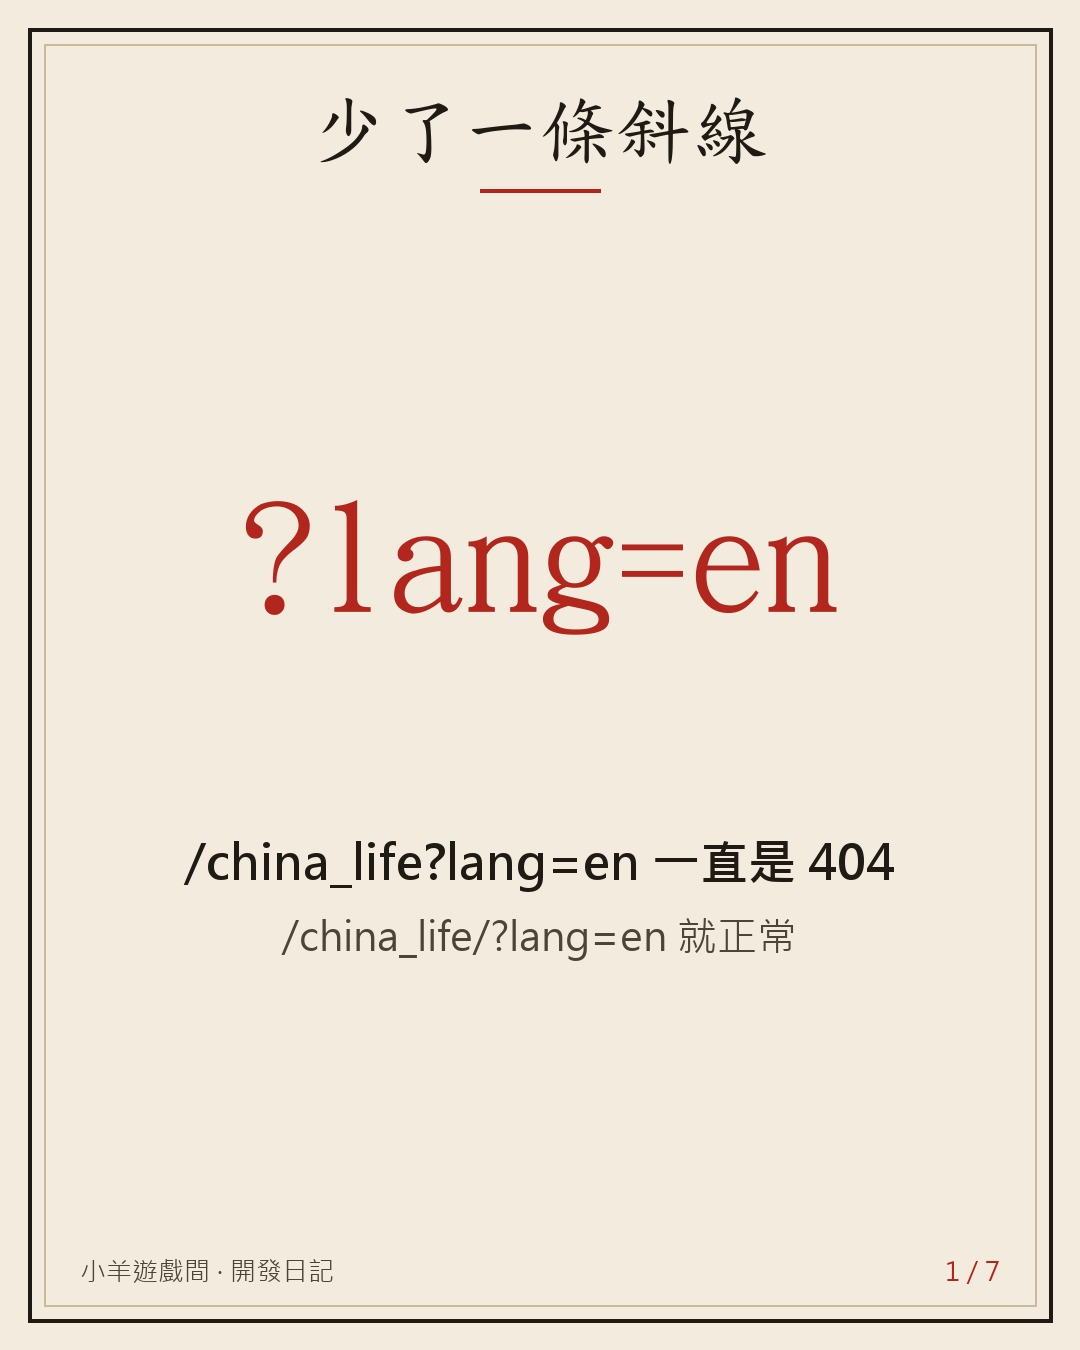
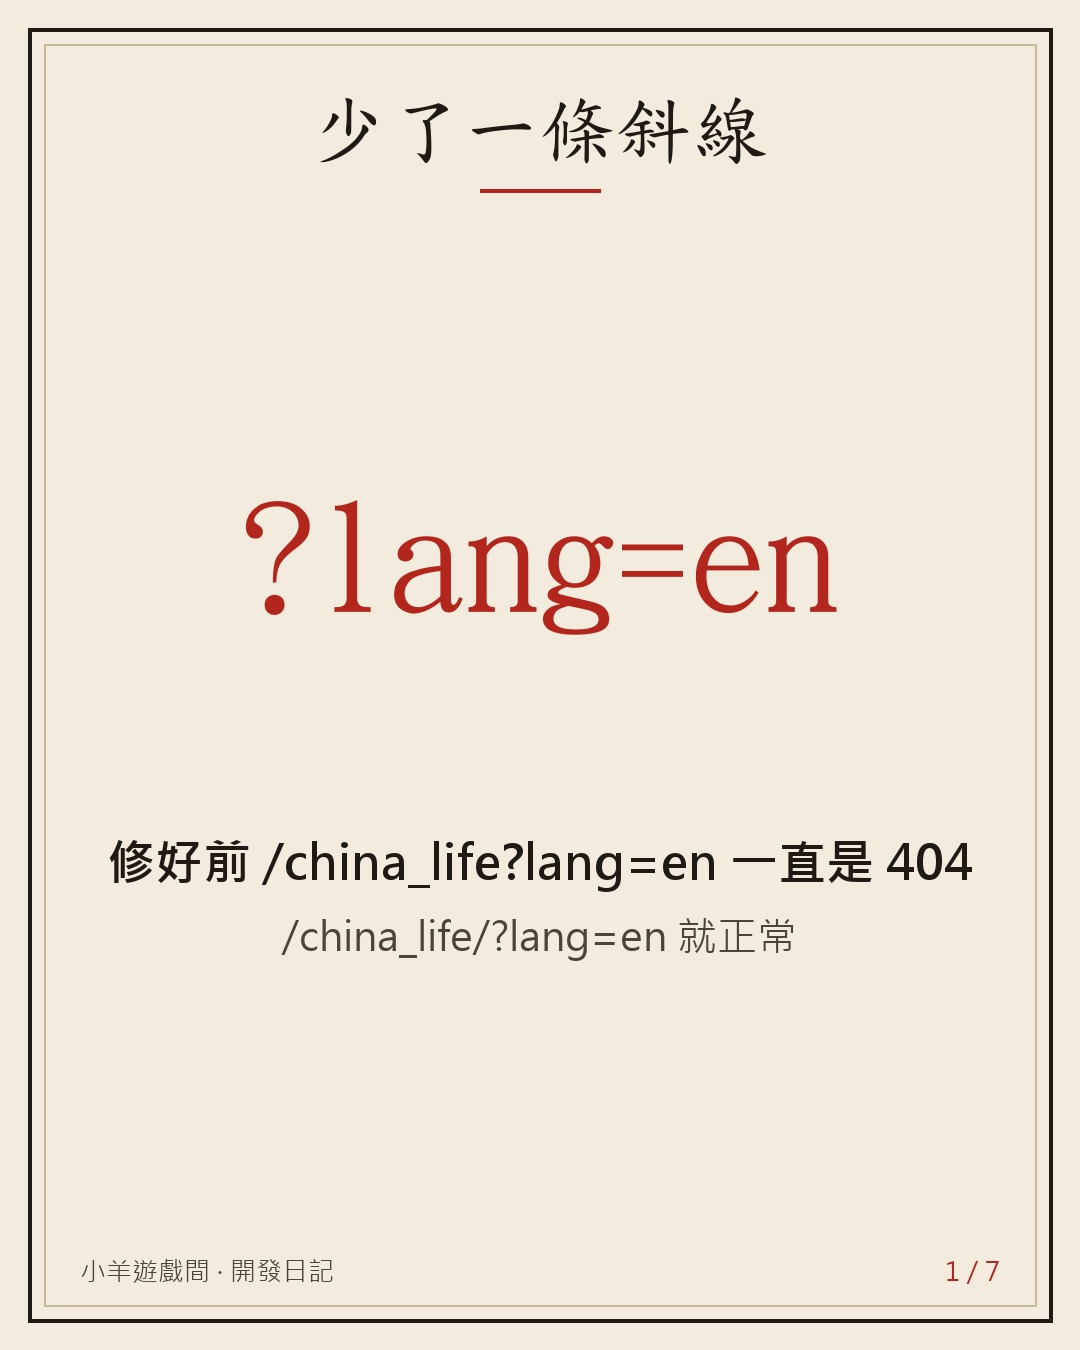
vault backup: 2026-11-06 05:37:53

Changed region(s): [[0.0917, 0.6222, 0.9167, 0.6533]]

diff --git a/Projects/auto promotion/posts/47.md b/Projects/auto promotion/posts/47.md
@@ -1,0 +1,155 @@
+---
+id: 47
+type: devnote
+game: hub
+topic: "小羊遊戲間：少一條斜線就 404（兌現 #31 結尾「/china_life?lang=en（少斜線）至今 404」）——每款遊戲自己的 Worker 只掛精確路由 /<id>（301 加斜線）和 /<id>/*，帶參數的 /<id>?x=1 兩條都不吃、掉到 hub，hub 只替 /api/* 跑程式 → 404；11/3 owner 對「/china_life?internal=1 回 404」說要修、參數照原樣、每款遊戲都一樣（D67 #79）；hub run_worker_first 加 12 個精確路徑（不用 /<id>* 萬用字元，否則吃到 /china_lifex），GET／HEAD 301 到 /<id>/ ＋ url.search 原樣不重新編碼；第 53 組 4 條檢查、8 個像的路徑（/china_lifex、/China_life、/china_life/x、/g/china_life…）照舊交給靜態檔；BE 抓到測試的洞：原本測試參數 ?a=1&b=%E4%B8%AD&c=&internal=1 經 URLSearchParams 重組後一字不差，加 flag、%20、~（重組成 flag=、a+b、%7E）；台灣 15:46 檢查＋設計 → 15:56 程式 → 16:00 上線 → 16:10 閘門轉嚴格，3 個檔 +21/−2；11/6 線上實測 /china_life?lang=en → 301 /china_life/?lang=en、/china_lifex?y=1 照樣 404；名單手寫兩處要一致"
+status: 待發
+created: 2026-11-06 21:55
+score: 8.3
+---
+# 少一條斜線，就是 404
+
+## Threads
+### 1
+11/4 我發了一篇講英文版的開發日記，裡面寫著：
+
+「網址少一條斜線，/china_life?lang=en，到今天（11/1）線上還是 404。」
+
+發出去的時候，它其實前一天就修好了 orz
+稿子 11/1 寫，11/3 下午修好，11/4 才發。
+差別只有一條斜線 /
+寫稿那天就知道的 404，又放了兩天，修只花 14 分鐘 👇
+![[47/01.jpg]]
+### 2
+先說為什麼會 404。
+
+games.csiesheep.com 上有 12 款遊戲（像投胎到中國歷史的《生在中國》）是自己一支小程式（Cloudflare Worker），各掛兩條路：
+・/china_life → 轉到 /china_life/（補斜線）
+・/china_life/ 底下的全部
+
+第一條是「精確比對」。
+網址後面一帶參數，變成 /china_life?lang=en，兩條都對不上。
+它就掉到遊戲站（小羊遊戲間）手上。
+遊戲站只替 /api/ 跑程式，其他找不到檔案 → 404。
+![[47/02.jpg]]
+### 3
+誰會踩到？
+
+・?lang=en：直接開英文版
+・?internal=1：我們自己人開遊戲時的標記，不算進統計
+
+11/3 推廣那邊回報：/china_life?internal=1 回 404。
+我的回覆是：要修，轉的時候參數照原樣保留，每一款遊戲都一樣。
+
+有斜線的 /china_life/?lang=en 一直都正常。
+所以平常點連結的人大多沒事，只有「沒斜線＋有參數」這個組合會掉下去。
+![[47/03.jpg]]
+### 4
+改法很小：
+
+遊戲站接住那 12 款遊戲的路徑，一個一個寫出來，精確比對。
+不用萬用字元 /china_life*，因為那會連 /china_lifex 這種別的網址也吃掉。
+
+接到就回 301，轉到 /china_life/，後面的參數原封不動貼回去，不重新編碼。
+
+3 個檔，+21 行、−2 行。
+![[47/04.jpg]]
+### 5
+有趣的是測試。
+
+我先寫一條會紅的檢查：12 款都要轉、參數要一字不差、8 個不該轉的網址不能轉（包括很像的 /China_life、/china_lifex、/china_life/x）。
+
+寫程式的 AI 回報：這條檢查有洞。
+測試用的參數 ?a=1&b=%E4%B8%AD&c= 拆開再組回去，剛好一模一樣。
+就算程式偷偷重新編碼，測試也看不出來。
+
+補上沒有等號的 flag、%20、~ 這三個，重組會變成 flag=、a+b、%7E，才分得出來。
+
+學到的事：測試資料要挑「被改過就會不一樣」的，不然測試永遠是綠的。
+![[47/05.jpg]]
+### 6
+11/3 下午（台灣時間）：
+15:46 檢查＋設計文件
+15:56 程式
+16:00 上線
+16:10 檢查轉成「不過就紅」
+
+今天我再實測一次：
+/china_life?lang=en → 301 → /china_life/?lang=en ✅
+/china_lifex?y=1 → 照樣 404（這是對的）
+
+還沒解決的：那 12 個路徑是手寫的名單，兩個地方要一致。下一款遊戲如果掛了自己的路、忘了加進名單，就會再掉進同一個洞 orz
+![[47/06.jpg]]
+### 7
+少一條斜線這種 bug，修起來 21 行，找起來要先懂整條路怎麼走。
+
+你踩過最小、但最難找的 bug 是什麼？
+上一篇問大家想看翻譯怎麼做還是 404 怎麼修，這篇先還 404。
+想看翻譯的留言說一聲，有錯請指正 :p 追蹤等下一篇開發日記～
+![[47/07.jpg]]
+### 連結
+《生在中國》投胎到中國歷史活完一生，英文版少斜線也進得去了 👉 https://games.csiesheep.com/china_life?lang=en
+其他上千款點了就玩的網頁小遊戲 👉 https://games.csiesheep.com/
+
+## Instagram
+11/4 我發的開發日記寫著：少一條斜線的 /china_life?lang=en 線上還是 404。發出去時它其實前一天就修好了 orz（稿子 11/1 寫的）。
+
+原因：有自己程式的 12 款遊戲只掛「/china_life」和「/china_life/ 底下」兩條精確的路，網址一帶參數又沒斜線，兩條都對不上，掉到遊戲站手上 → 404。
+
+改法：遊戲站接住 12 款遊戲的路徑，301 轉到有斜線的網址，參數原封不動。從檢查寫好到上線 14 分鐘，+21 行。寫程式的 AI 還抓到我測試的洞：測試參數重組後剛好一模一樣，根本看不出有沒有被改。測試資料要挑「被改過就會不一樣」的。
+
+你踩過最小但最難找的 bug 是什麼？👇
+
+連結在主頁
+#小羊遊戲間 #開發日記 #網頁遊戲 #AI寫程式
+
+卡片：![[47/01.jpg]] ![[47/02.jpg]] ![[47/03.jpg]] ![[47/04.jpg]] ![[47/05.jpg]] ![[47/06.jpg]] ![[47/07.jpg]]
+
+## Facebook
+🛠 開發日記｜少一條斜線，就是 404
+
+11/4 我發了一篇講英文版的開發日記，裡面寫著：「網址少一條斜線，/china_life?lang=en，到今天（11/1）線上還是 404。」發出去的時候它其實前一天就修好了 orz——稿子 11/1 寫，11/3 下午修好，11/4 才發。差別只有一條斜線；寫稿那天就知道的 404，又放了兩天，修只花 14 分鐘。
+
+🔍 為什麼會 404
+games.csiesheep.com 上有 12 款遊戲（像投胎到中國歷史的《生在中國》）是自己一支小程式（Cloudflare Worker），各掛兩條路：/china_life（轉到 /china_life/，補斜線），和 /china_life/ 底下的全部。第一條是精確比對，網址一帶參數變成 /china_life?lang=en，兩條都對不上，就掉到遊戲站（小羊遊戲間）手上。遊戲站只替 /api/ 跑程式，其他找不到檔案就回 404。
+
+👣 誰會踩到
+?lang=en 是直接開英文版，?internal=1 是我們自己人開遊戲時的標記（不算進統計）。11/3 推廣那邊回報 /china_life?internal=1 回 404，我的回覆是：要修，轉的時候參數照原樣保留，每一款遊戲都一樣。有斜線的 /china_life/?lang=en 一直都正常，只有「沒斜線＋有參數」這個組合會掉下去。
+
+🔧 改法很小
+遊戲站接住那 12 款遊戲的路徑，一個一個寫出來精確比對；不用萬用字元 /china_life*，因為那會連 /china_lifex 這種別的網址也吃掉。接到就回 301 轉到 /china_life/，參數原封不動貼回去，不重新編碼。3 個檔，+21 行、−2 行。
+
+🧪 測試自己的洞
+我先寫一條會紅的檢查：12 款都要轉、參數要一字不差、8 個不該轉的網址不能轉（包括很像的 /China_life、/china_lifex、/china_life/x）。寫程式的 AI 回報這條檢查有洞：測試用的參數 ?a=1&b=%E4%B8%AD&c= 拆開再組回去剛好一模一樣，就算程式偷偷重新編碼也看不出來。補上沒有等號的 flag、%20、~，重組會變成 flag=、a+b、%7E，才分得出來。學到的事：測試資料要挑「被改過就會不一樣」的，不然測試永遠是綠的。
+
+⏱ 11/3 下午（台灣時間）
+15:46 檢查＋設計文件 → 15:56 程式 → 16:00 上線 → 16:10 檢查轉成「不過就紅」。今天再實測：/china_life?lang=en → 301 → /china_life/?lang=en ✅；/china_lifex?y=1 照樣 404（這是對的）。
+
+🕳 還沒解決的
+那 12 個路徑是手寫的名單，兩個地方要一致。下一款遊戲如果掛了自己的路、忘了加進名單，就會再掉進同一個洞 orz
+
+少一條斜線這種 bug，修起來 21 行，找起來要先懂整條路怎麼走。你踩過最小、但最難找的 bug 是什麼？上一篇問大家想看翻譯還是 404，這篇先還 404；想看翻譯的留言說一聲。有錯請指正 :p
+
+👉 《生在中國》英文版（少斜線也進得去了）：https://games.csiesheep.com/china_life?lang=en
+👉 其他上千款點了就玩的網頁小遊戲：https://games.csiesheep.com/
+
+相簿：同 Instagram 卡片
+
+## Sources
+- C:/Users/sheep/code/obsidian/Projects/auto promotion/posts/31.md — 第 67 行「網址少一條斜線，/china_life?lang=en，到今天（11/1）線上還是 404。」；created 2026-11-01 22:10，發文紀錄 Threads／IG／FB 2026-11-04 11:43–11:49
+- ~/code/hub/docs/design.md D67、§15.1 — owner 2026-11-03 要修、參數原樣、12 個路徑；原因（精確 Route、hub 只 /api/* run_worker_first）；不用萬用字元
+- hub commits 8ac560b（11-02 23:46 PST = 台灣 11/3 15:46，檢查＋設計）、51ac9e2（15:56，BE，3 files +21/−2）、eb8a591（測試參數補 flag/%20/~，BE #79 發現原串往返不變）、98e5062（16:00 land）、7b23519（16:10 flip strict）
+- ~/code/hub/tests/acc_gamepaths.js — 第 53 組 4 條檢查、8 個照舊交給靜態檔的路徑
+- node 實測：URLSearchParams 重組 '?a=1&b=%E4%B8%AD&c=&internal=1' → 相同；補上後 → flag=、x=a+b、t=%7E
+- curl 2026-11-06 21:40：/china_life?lang=en 301 → /china_life/?lang=en；/covervote?x=1 301；/china_lifex?y=1 404
+- ~/code/china_life/docs/design.md §95 — 帶 internal=1 不載 gtag、不送 GA、這一世不上報
+- ~/code/hub commit 7029f7e（FE #72 D64：Google Analytics 遵守 internal=1）— ?internal=1 不算進統計
+- 47/src/cl.png — 2026-11-06 headless Chrome 開 /china_life?internal=1&lang=en 的畫面（英文版首頁）
+
+## 打磨紀錄
+| 回合 | 1 | 2 | 3 | 4 | 5 | 6 | 7 | 8 | 9 | 10 | 平均 | 主要修改 |
+|---|---|---|---|---|---|---|---|---|---|---|---|---|
+| 1 | 8 | 9 | 7 | 7 | 8 | 6 | 7 | 8 | 6 | 10 | 7.6 | 未達標：引號改成 31 篇原句、講英文版的日記；「每款」→ 12 款；8 個不該轉的網址；卡 1、3 改過去式；補「測試資料要挑被改過就會不一樣的」；回應 #31 的投票；連結補 /china_life?lang=en |
+| 2 | 8 | 9 | 8 | 8 | 8 | 9 | 8 | 8 | 7 | 10 | 8.3 | 達標；補 china_life §95 來源、31 篇原句來源、IG「檢查寫好到上線」、第 2 則點名《生在中國》 |
+
+## 發文紀錄

diff --git a/Projects/auto promotion/2026-11-06.md b/Projects/auto promotion/2026-11-06.md
@@ -103,3 +103,8 @@
 | 21:24 | promo-post-devnote-2120 | 開始 | #38 開發日記「所有 API 都回同一行字：error code: 1101」→ Threads、IG、FB |  |
 | 21:29 | promo-producer | 開始 | 存貨：分享卡 2、生在中國 Reel 3、貼文 熱門 4／開發日記 3、鬼唱詩 待發 1／待審 1／要修改 0；審稿無待修。開發日記不足 4，寫一篇開發日記 |  |
 | 21:31 | promo-post-devnote-2120 | 發文 | #38 Threads 8 則（開始時 IG、Threads 都已在 csiesheep.games） | https://www.threads.com/@csiesheep.games/post/DfZtu9FmyI9 |
+| 21:33 | promo-producer | 進度 | 開發日記 #47「少一條斜線，就是 404」（小羊遊戲間 D67 #79）初稿與 7 張卡完成，送評審 |  |
+| 21:33 | promo-post-devnote-2120 | 發文 | #38 Instagram 7 張輪播 | https://www.instagram.com/p/DfZuP7aG2dJ/ |
+| 21:35 | promo-producer | 完成 | 開發日記 #47「少一條斜線，就是 404」待發（posts/47.md，7 張卡，評審 7.6→8.3）；存貨：分享卡 2、Reel 3、貼文 熱門 4／開發日記 4、鬼唱詩 待發 1／待審 1／要修改 0 |  |
+| 21:36 | promo-post-devnote-2120 | 發文 | #38 Facebook 粉專 小羊遊戲間 7 張相簿（已發，連結見粉專貼文列表） | https://www.facebook.com/ |
+| 21:36 | promo-post-devnote-2120 | 完成 | #38 三平台都發了。帳號：開始時 IG、Threads 都在 csiesheep.games，結束時留在 csiesheep.games；FB 開始在個人檔案，已切回個人檔案。21:36 |  |

diff --git a/Projects/auto promotion/posts/38.md b/Projects/auto promotion/posts/38.md
@@ -3,7 +3,7 @@ id: 38
 type: devnote
 game: covervote
 topic: "蓋牌投票箱：10/22 深夜所有 API 回 Cloudflare error code 1101、幾分鐘自己好（#47）——brief 猜 D1 暫時失敗；BE 指出 taoyuan health 不碰 D1（桃園沒段落）也 1101 → 猜測不成立，當時也沒有部署；本機空 D1：舊程式 stats 500 帶 stack trace、taoyuan 200；修法：任何例外 503 {error:unavailable}、retry-after 30、log 一行遮 IP／段落 id／候選人姓名；計數一次 incrMany（D1 batch）不寫一半；自檢舊程式 3 過 7 紅 → 11 過 0 紅、5 次證偽；開單到關單 7 分鐘；根因至今未知，isolate 起不來或平台錯誤仍會 1101"
-status: 發文中 2026-11-06 21:25
+status: 已發
 created: 2026-11-04 12:30
 score: 8.0
 ---
@@ -152,3 +152,5 @@ GitHub 上開單到關單（含部署）7 分鐘。
 
 ## 發文紀錄
 - Threads（csiesheep.games）2026-11-06 21:3x：https://www.threads.com/@csiesheep.games/post/DfZtu9FmyI9 （8 則，7 張圖，沒選主題）
+- Instagram（csiesheep.games）2026-11-06 21:34：https://www.instagram.com/p/DfZuP7aG2dJ/ （7 張，Original，AI 標籤關）
+- Facebook 粉專 小羊遊戲間 2026-11-06 21:37：已發（7 張相簿，AI 標籤關，所有人；連結藏在追蹤參數後，見粉專貼文列表）。之後切回個人檔案。
